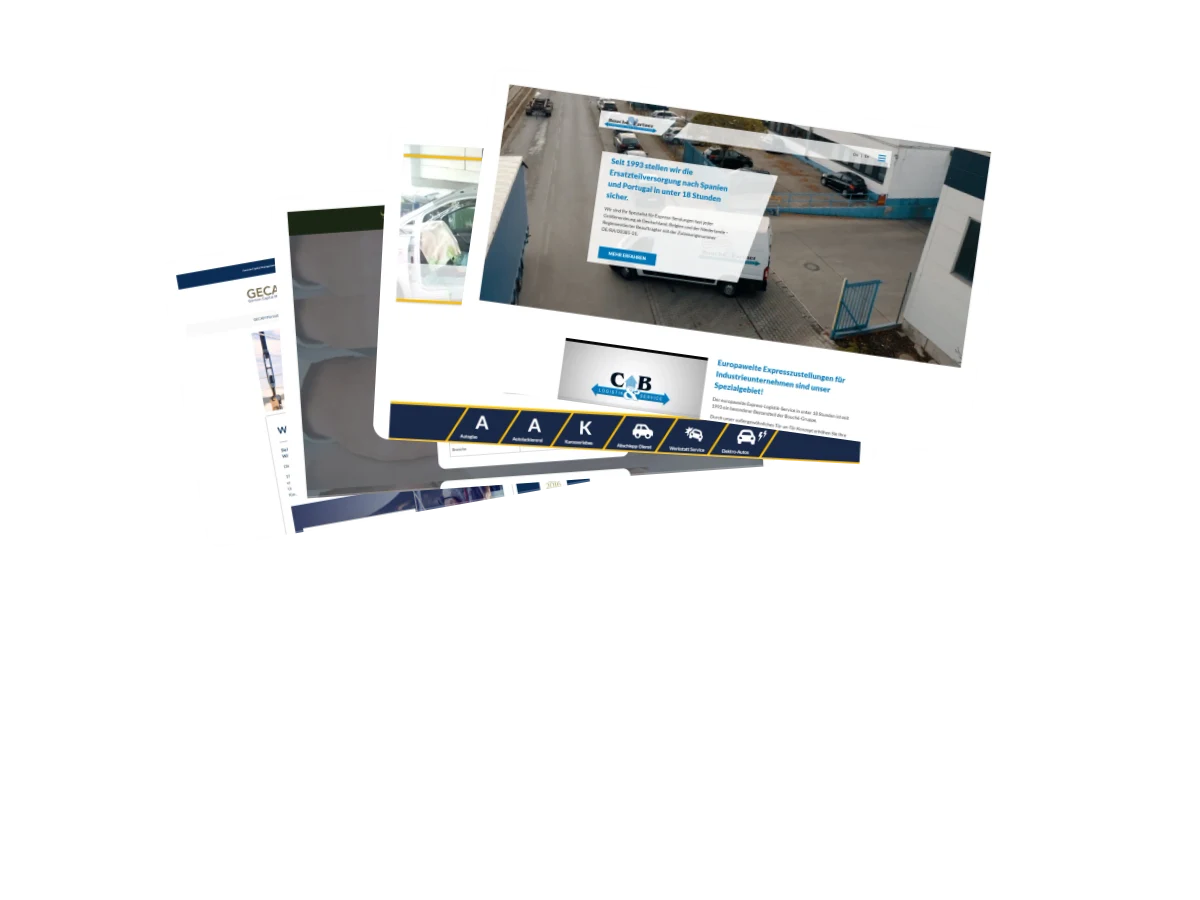
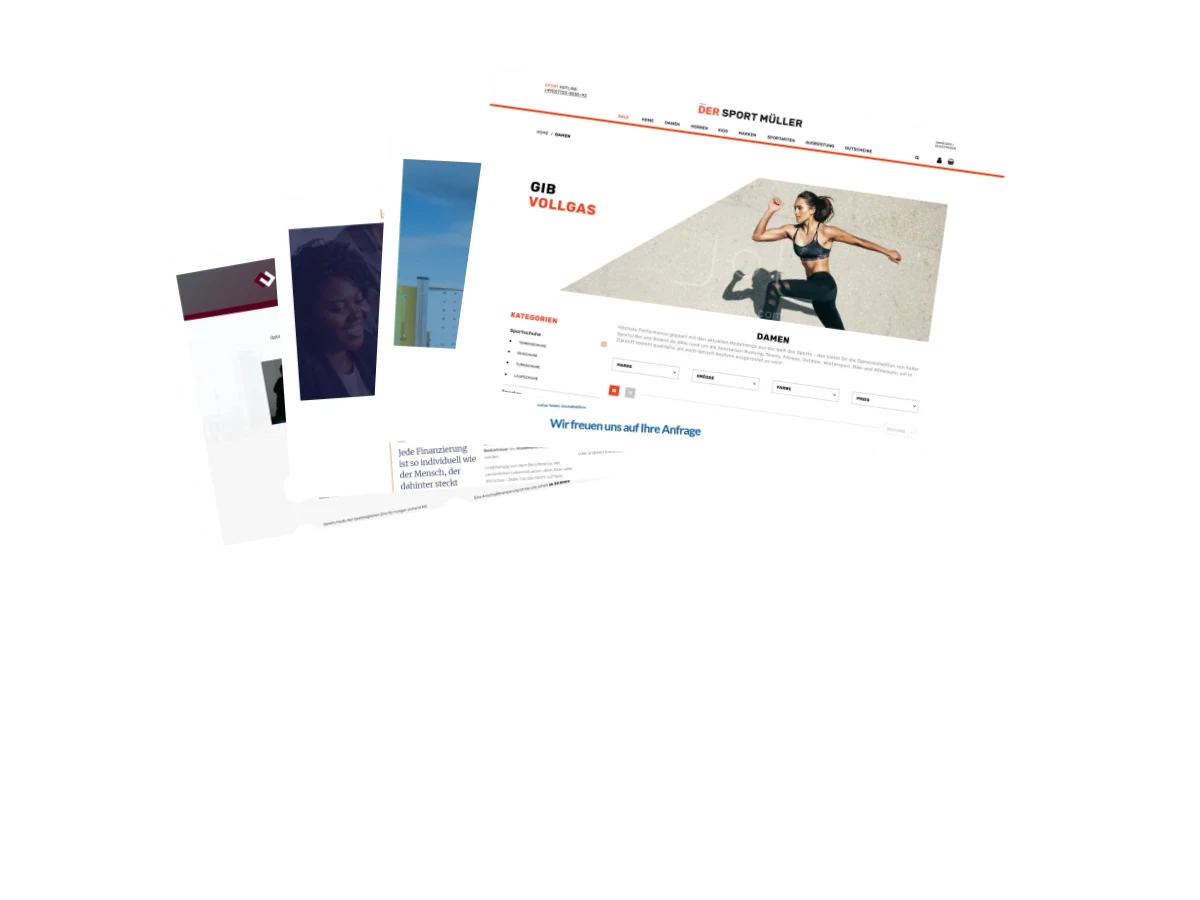
Website Designs: ältere Clients gegen aktuellere Arbeiten tauschen
Stack und Galerie jetzt Baufinanz, Willi Alt, IG Seidel und SportMüller.

Changed region(s): [[0.1233, 0.0933, 0.8325, 0.5911]]

diff --git a/src/components/work/WebsitesStackLogo.tsx b/src/components/work/WebsitesStackLogo.tsx
@@ -1,11 +1,11 @@
 /**
- * Website Designs card mark — stacked client site previews with ambient drift.
+ * Website Designs card mark — stacked newer client previews with ambient drift.
  */
 const SITES = [
-  { src: '/media/websites/gecam-cover.webp', alt: 'GECAM' },
-  { src: '/media/websites/leonardo-cover.webp', alt: 'Leonardo' },
-  { src: '/media/websites/aak-cover.webp', alt: 'AAK' },
-  { src: '/media/websites/bouche-cover.webp', alt: 'Bouche' },
+  { src: '/media/websites/baufinanz-cover.webp', alt: 'Baufinanz' },
+  { src: '/media/websites/willi-alt-cover.webp', alt: 'Willi Alt' },
+  { src: '/media/websites/ig-seidel-cover.webp', alt: 'IG Seidel' },
+  { src: '/media/sportmueller/category-1.webp', alt: 'SportMüller Shop' },
 ] as const;
 
 export default function WebsitesStackLogo({